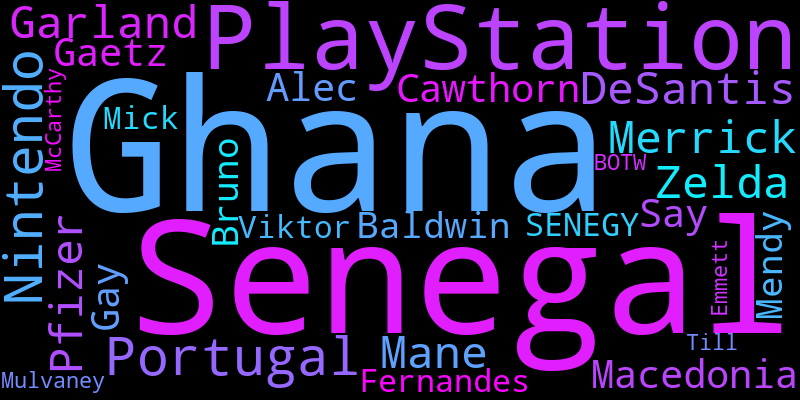
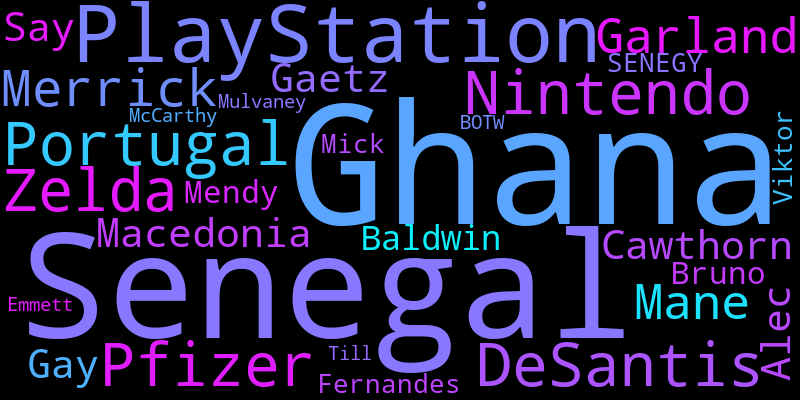
updates to assignment

diff --git a/nlp_assignment.py b/nlp_assignment.py
@@ -20,26 +20,18 @@ for tw in range(len(tweets)):
     name = tweets[tw]["name"]
     topic.append(name)
 # print(topic)
-volume_topic_dict = {"Topic": topic, "Volume": volume}
-# print(volume_topic_dict)
-volume_topic_df = pd.DataFrame(volume_topic_dict)
+
+volume_topic_df = pd.DataFrame({"Topic": topic, "Volume": volume})
 # print(volume_topic_df)
 
-##### PART ONE #####
 sorted_df = volume_topic_df.sort_values("Volume", ascending=False)
-# print(sorted_df)
-top10 = sorted_df[:10]
-# print(top10)
-df = pd.DataFrame(top10, columns=["Topic", "Volume"])
-# print(df)
 
-df.plot.bar(x="Topic", y="Volume", legend=False)
-plt.gcf().tight_layout()
+##### PART ONE #####
+sorted_df[:10].plot.bar(x="Topic", y="Volume", legend=False)
 plt.show()
 
 ##### PART TWO #####
-greater_20000 = sorted_df[sorted_df["Volume"] > 20000]
-cloud_df = pd.DataFrame(greater_20000, columns=["Topic", "Volume"])
+cloud_df = sorted_df[sorted_df["Volume"] > 20000]
 # print(cloud_df.shape)
 
 text = " ".join(review for review in cloud_df["Topic"].astype(str))
